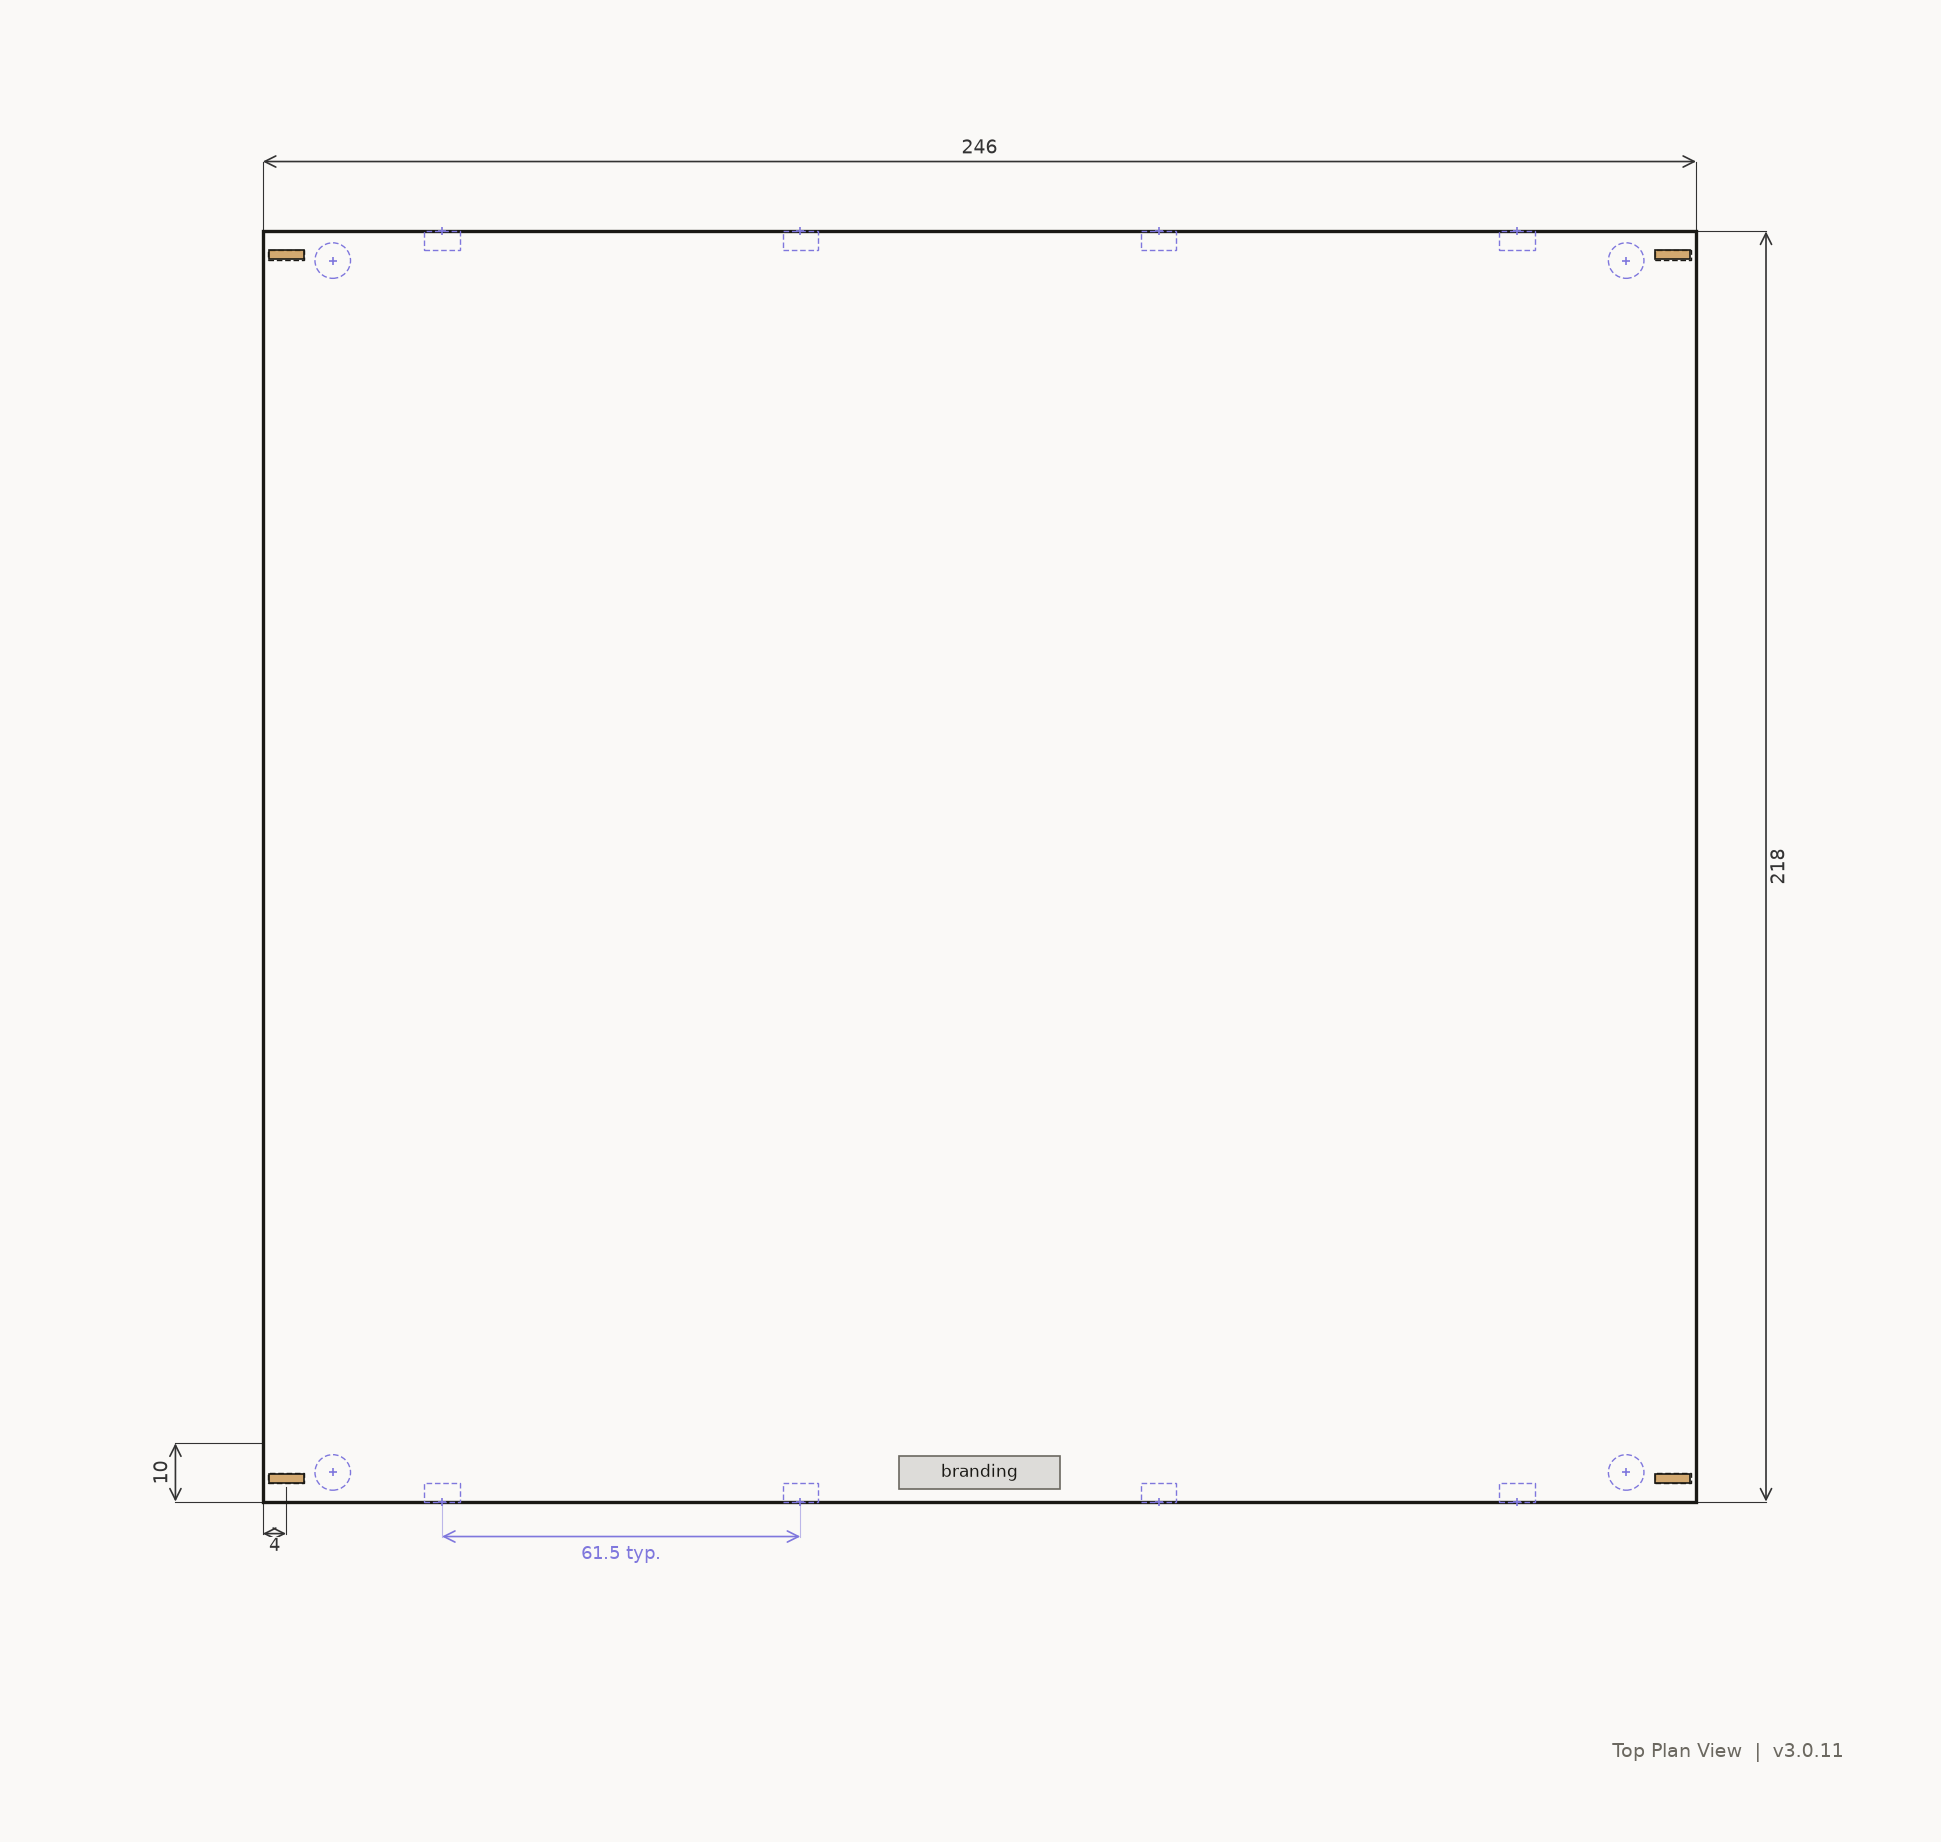
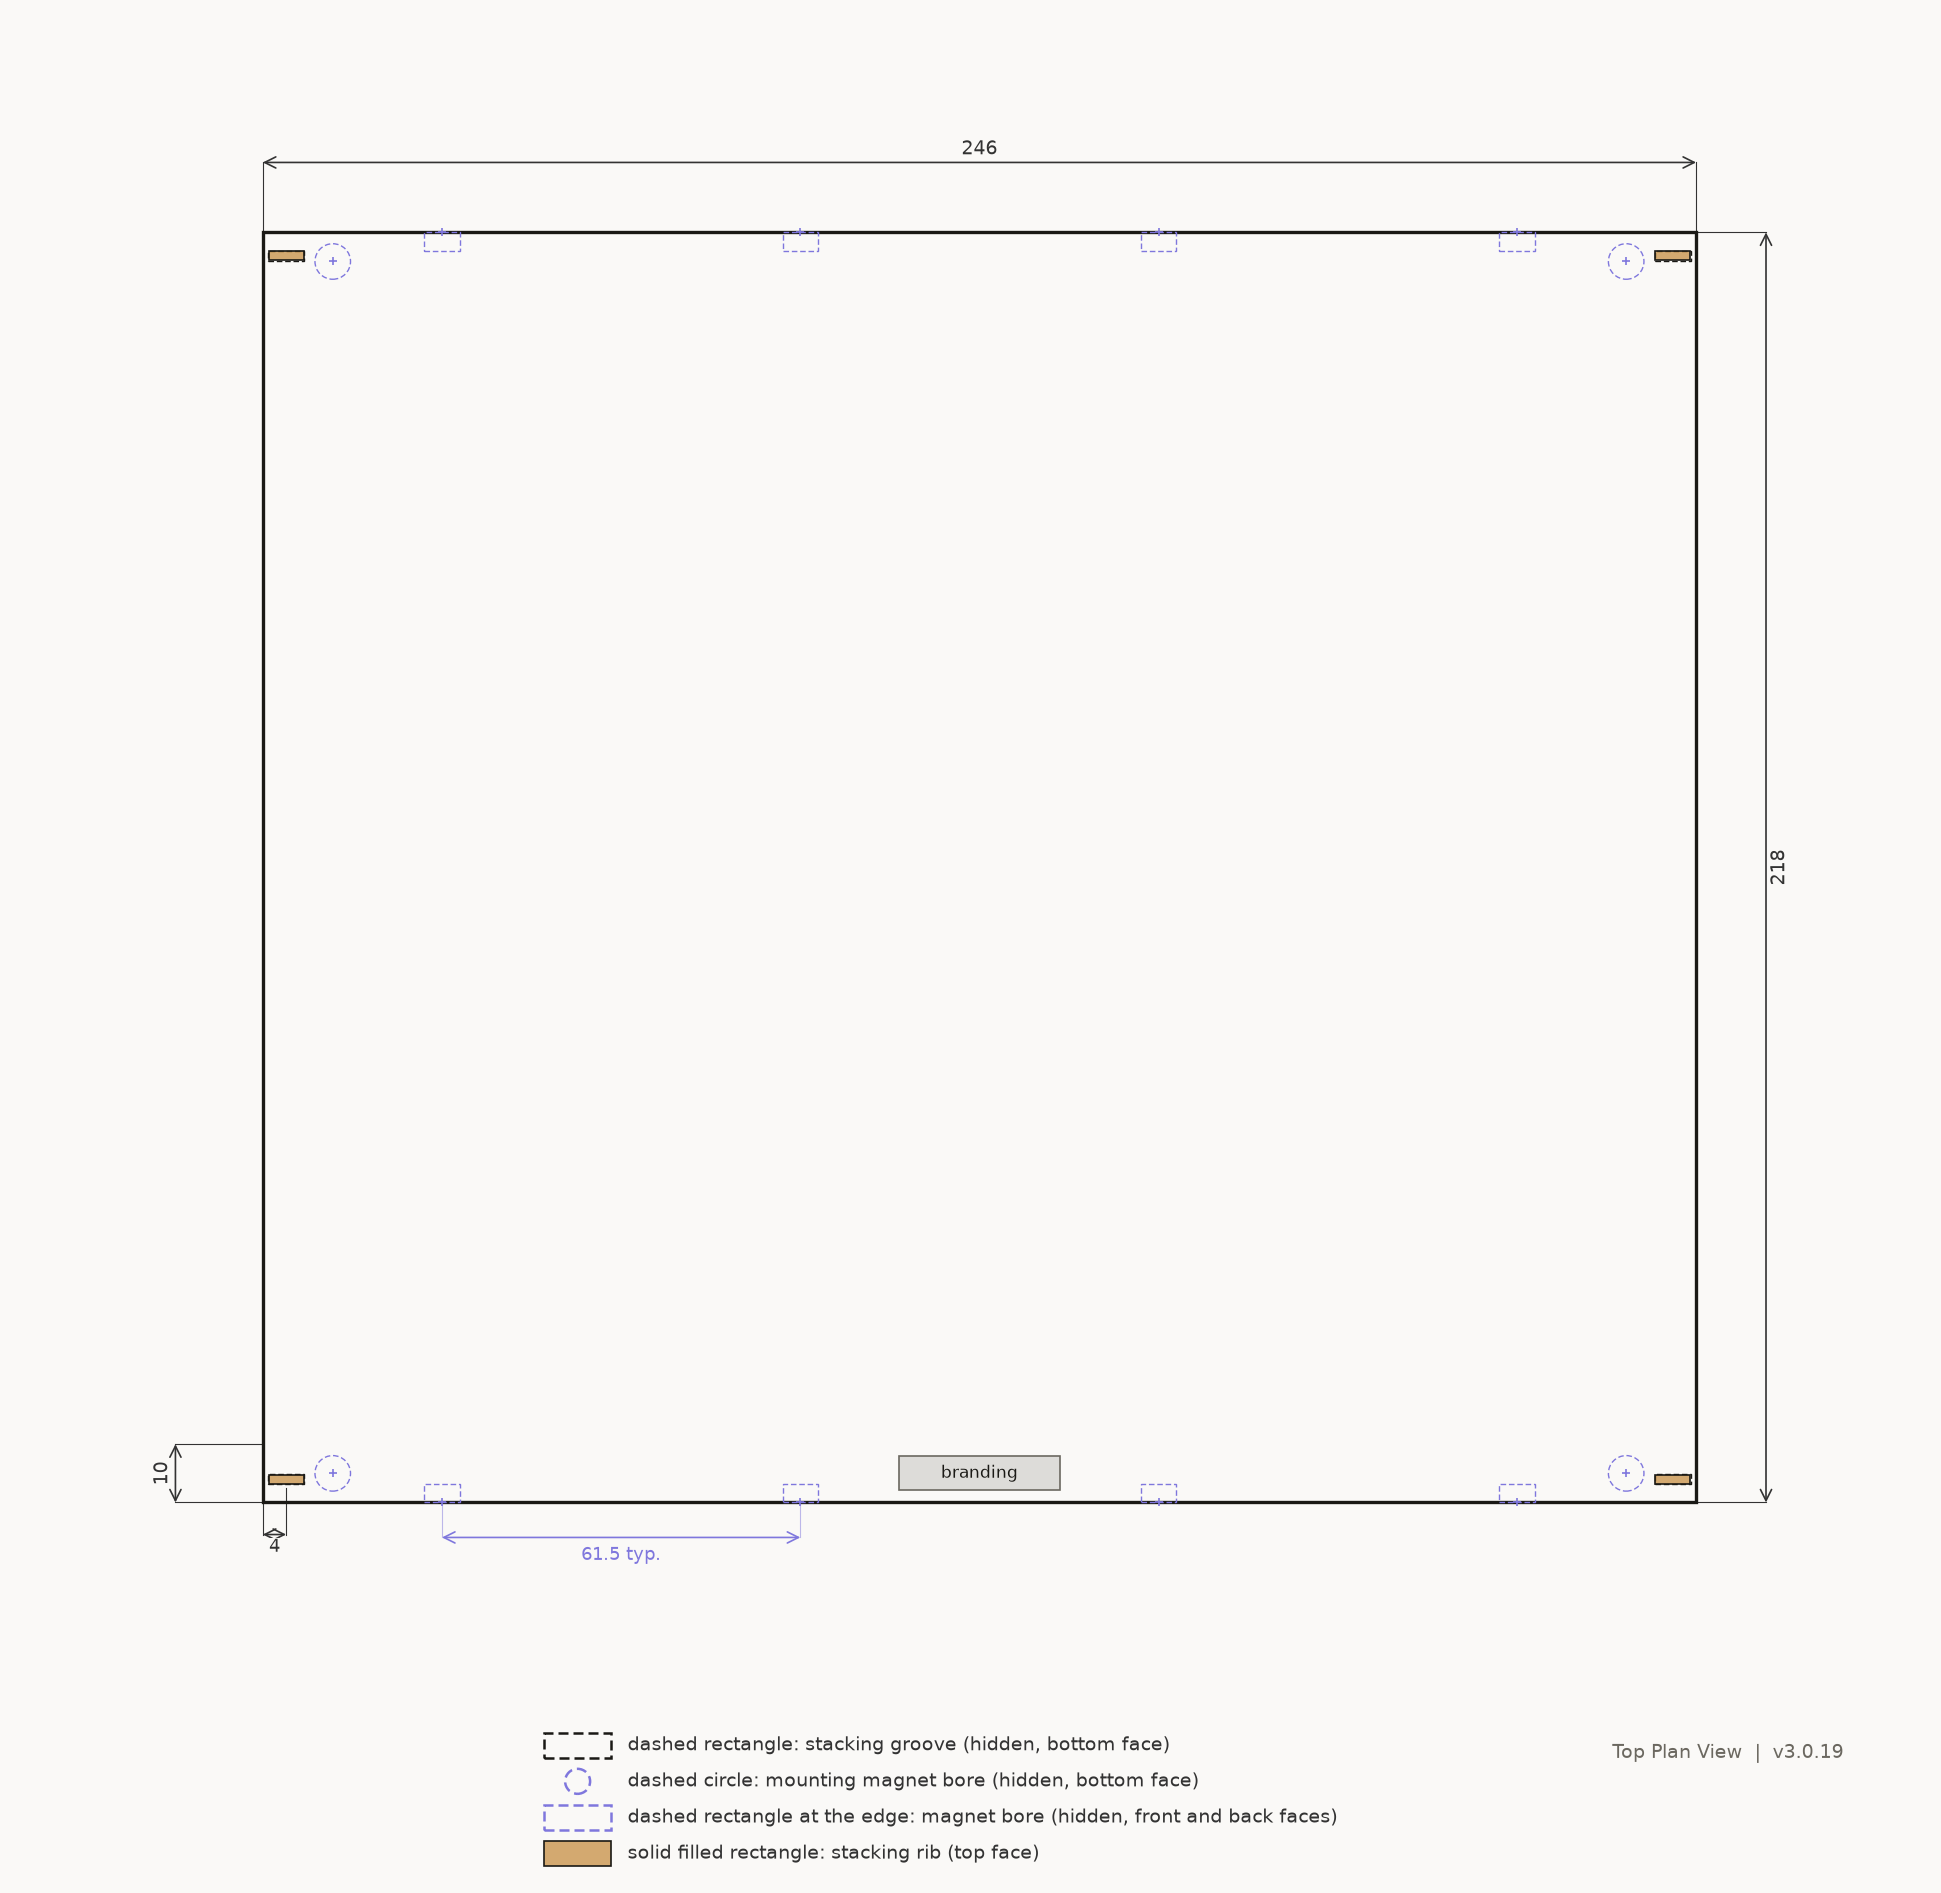
Add feature keys to the top plan and front elevation (3.0.19)
Fixes #51.

diff --git a/jig-plate.py b/jig-plate.py
@@ -720,6 +720,13 @@ Changelog
          so the mesh stays a volume) fails only that face's test(s);
          STL triangle data (bytes 80+) byte-identical to 3.0.11; both
          meshes watertight; full test suite passes.
+  3.0.19 drawing feature keys (#51): the top plan and front elevation each
+         carry a key naming the stacking groove, the mounting and edge
+         magnet bores and the rib, with each swatch in the line style the
+         feature is drawn in (add_key gained a points-based mode). Verified:
+         STL triangle data (bytes 80+) byte-identical to 3.0.11; both
+         meshes watertight; new tests fail without the key or with a
+         wrong swatch style; drawings viewed; full test suite passes.
 """
 import argparse
 import sys
@@ -750,7 +757,7 @@ def _solid(color, alpha):
     fg, bg = _to_rgba(color), _to_rgba(BG)
     return tuple(alpha * c + (1 - alpha) * b for c, b in zip(fg[:3], bg[:3])) + (1.0,)
 
-VERSION = "3.0.17"
+VERSION = "3.0.19"
 OUT_DIR = Path(__file__).resolve().parent / "output"
 IMG_DIR = Path(__file__).resolve().parent / "images"
 
@@ -819,16 +826,63 @@ def leader(ax, anchor, text_pos, label, ha="left", dashed=True):
             zorder=6)
 
 
-def add_key(ax, items, y_pos):
-    total_w = sum(len(label) * 5.5 + 22 for label, _ in items)
+def add_key(ax, items, y_pos=None, below_pt=None):
+    """Draw a key of (label, color) swatches.
+
+    Default (y_pos, in data units): one centered row of color swatches, as
+    on the isometric overview.
+
+    With below_pt: a column of feature entries under the axes, laid out in
+    points so it reads the same whatever the drawing's scale. Each item is
+    (label, color, style) where style gives the swatch outline: `shape`
+    ("rect" or "circle"), `ls` (line style, drawn as the feature is drawn,
+    so the key does not rely on color) and `fc` (fill or "none"). Call it
+    after the view is final: it positions the key from the axes box.
+    """
+    if below_pt is not None:
+        _add_point_key(ax, items, below_pt)
+        return
+    total_w = sum(len(label) * 5.5 + 22 for label, *_ in items)
     x = -total_w / 2
-    for label, color in items:
+    for label, color, *_ in items:
         ax.add_patch(FancyBboxPatch((x, y_pos - 5), 11, 11,
                      boxstyle="round,pad=1", fc=color, ec="none",
                      alpha=0.7, zorder=5))
         ax.text(x + 16, y_pos + 0.5, label, fontsize=7.5,
                 color=MUTED, va="center", fontfamily="sans-serif", zorder=5)
         x += len(label) * 5.5 + 30
+
+
+KEY_ROW_PT = 13.0
+KEY_SWATCH_W_PT = 24.0
+KEY_SWATCH_H_PT = 9.0
+
+
+def _add_point_key(ax, items, below_pt):
+    from matplotlib.patches import Circle, Rectangle
+    from matplotlib.transforms import Affine2D
+    fig = ax.figure
+    ax.apply_aspect()
+    box = ax.get_position()
+    # points -> display pixels, origin at the figure's lower-left corner
+    to_px = Affine2D().scale(1 / 72) + fig.dpi_scale_trans
+    x0 = box.x0 * fig.get_figwidth() * 72
+    y_top = box.y0 * fig.get_figheight() * 72 - below_pt
+    for i, (label, color, style) in enumerate(items):
+        yc = y_top - i * KEY_ROW_PT
+        kw = dict(fc=style.get("fc", "none"), ec=color, lw=style.get("lw", 0.9),
+                  ls=style.get("ls", "-"), transform=to_px, clip_on=False,
+                  zorder=5)
+        if style.get("shape") == "circle":
+            patch = Circle((x0 + KEY_SWATCH_W_PT / 2, yc),
+                           KEY_SWATCH_H_PT / 2, **kw)
+        else:
+            patch = Rectangle((x0, yc - KEY_SWATCH_H_PT / 2),
+                              KEY_SWATCH_W_PT, KEY_SWATCH_H_PT, **kw)
+        ax.add_patch(patch)
+        ax.text(x0 + KEY_SWATCH_W_PT + 6, yc, label, fontsize=7,
+                color=DIM_COLOR, va="center", ha="left",
+                fontfamily="sans-serif", transform=to_px, zorder=5)
 
 
 # ---- plate diagram (isometric) ----
@@ -1148,6 +1202,30 @@ def _title_block(ax, title):
             color=MUTED, fontfamily="sans-serif")
 
 
+# Feature keys for the top plan and the front elevation. Each swatch uses
+# the line style the feature is drawn in, and each label names the feature
+# and the face it is on, so the key does not rely on color.
+KEY_GROOVE = ("dashed rectangle: stacking groove (hidden, bottom face)",
+              FG, dict(ls=HIDDEN_LS))
+KEY_RIB = ("solid filled rectangle: stacking rib (top face)",
+           FG, dict(fc=_faint(AMBER, 0.6), lw=0.6))
+KEY_BOTTOM_BORE_CIRCLE = (
+    "dashed circle: mounting magnet bore (hidden, bottom face)",
+    VIOLET, dict(shape="circle", ls=HIDDEN_LS))
+KEY_BOTTOM_BORE_RECT = (
+    "dashed rectangle: mounting magnet bore (hidden, bottom face)",
+    VIOLET, dict(ls=HIDDEN_LS))
+KEY_EDGE_BORE = (
+    "dashed rectangle at the edge: magnet bore (hidden, front and back faces)",
+    VIOLET, dict(ls=HIDDEN_LS))
+KEY_FRONT_BORE = (
+    "solid circle: magnet bore (front face)",
+    VIOLET, dict(shape="circle", fc=_faint(VIOLET, 0.15), lw=0.8))
+TOP_PLAN_KEY = [KEY_GROOVE, KEY_BOTTOM_BORE_CIRCLE, KEY_EDGE_BORE, KEY_RIB]
+FRONT_KEY = [KEY_FRONT_BORE, KEY_BOTTOM_BORE_RECT, KEY_GROOVE, KEY_RIB]
+FEATURE_KEY_GAP_PT = 26.0
+
+
 # ---- technical drawing 1: dimensioned top plan view ----
 def _tech_top_plan(out_path, geom):
     S = 2.0
@@ -1247,6 +1325,7 @@ def _tech_top_plan(out_path, geom):
 
     ax.autoscale_view()
     ax.margins(0.06)
+    add_key(ax, TOP_PLAN_KEY, below_pt=FEATURE_KEY_GAP_PT)
     fig.savefig(out_path, dpi=200, bbox_inches="tight", pad_inches=0.4,
                 facecolor=BG)
     plt.close(fig)
@@ -1316,6 +1395,7 @@ def _tech_front_elevation(out_path, geom):
 
     ax.autoscale_view()
     ax.margins(x=0.03, y=0.15)
+    add_key(ax, FRONT_KEY, below_pt=FEATURE_KEY_GAP_PT)
     fig.savefig(out_path, dpi=200, bbox_inches="tight", pad_inches=0.3,
                 facecolor=BG)
     plt.close(fig)

diff --git a/tests/test_feature_key.py b/tests/test_feature_key.py
@@ -1,0 +1,63 @@
+"""The top plan and front elevation each carry a key naming every line
+style that distinguishes a feature (jig-plate.py), so hidden grooves, hidden
+bores and ribs can be told apart without color.
+
+The figures are captured by wrapping plt.close, which each drawing calls
+after saving.
+"""
+import importlib.util
+from pathlib import Path
+
+import pytest
+
+from jig_plate_base import build_plate
+
+_SCRIPT = Path(__file__).resolve().parent.parent / "jig-plate.py"
+_spec = importlib.util.spec_from_file_location("jig_plate_cli_key", _SCRIPT)
+cli = importlib.util.module_from_spec(_spec)
+_spec.loader.exec_module(cli)
+
+
+def _capture(fn, tmp_path):
+    captured = []
+    real_close = cli.plt.close
+    cli.plt.close = lambda fig=None: (captured.append(fig), real_close(fig))
+    try:
+        fn(tmp_path / "x.png", build_plate().geometry)
+    finally:
+        cli.plt.close = real_close
+    return captured[0].axes[0]
+
+
+EXPECTED = {
+    "top": ["dashed rectangle: stacking groove (hidden, bottom face)",
+            "dashed circle: mounting magnet bore (hidden, bottom face)",
+            "dashed rectangle at the edge: magnet bore (hidden, front and back faces)",
+            "solid filled rectangle: stacking rib (top face)"],
+    "front": ["solid circle: magnet bore (front face)",
+              "dashed rectangle: mounting magnet bore (hidden, bottom face)",
+              "dashed rectangle: stacking groove (hidden, bottom face)",
+              "solid filled rectangle: stacking rib (top face)"],
+}
+
+
+@pytest.mark.parametrize("name,fn", [
+    ("top", "_tech_top_plan"), ("front", "_tech_front_elevation")])
+def test_sheet_has_feature_key(tmp_path, name, fn):
+    ax = _capture(getattr(cli, fn), tmp_path)
+    texts = [t.get_text() for t in ax.texts]
+    for entry in EXPECTED[name]:
+        assert entry in texts, entry
+
+
+@pytest.mark.parametrize("name,fn", [
+    ("top", "_tech_top_plan"), ("front", "_tech_front_elevation")])
+def test_key_swatches_use_the_feature_line_style(tmp_path, name, fn):
+    """Each 'dashed' entry has a dashed swatch and each 'solid' one a solid
+    swatch, so the key does not rely on color."""
+    ax = _capture(getattr(cli, fn), tmp_path)
+    key_patches = [p for p in ax.patches if not p.get_clip_on()]
+    assert len(key_patches) == 4
+    for patch, label in zip(key_patches, EXPECTED[name]):
+        dashed = patch.get_linestyle() not in ("-", "solid")
+        assert dashed == label.startswith("dashed"), label

diff --git a/README.md b/README.md
@@ -60,18 +60,22 @@ drawn three times its true scale.](docs/images/diagram.png)
 
 ### Top plan
 
-![Top plan of the 246 × 218 mm plate: a stacking rib at each corner, a
-mounting-magnet bore on the underside near each corner, four magnet bores
-along each of the front and back edges at 61.5 mm spacing, and the
-branding area centered on the front edge. Features below the top face are
-dashed.](docs/images/tech_top.png)
+![Top plan of the 246 × 218 mm plate: a stacking rib (solid, filled) at each
+corner, with its stacking groove (dashed black rectangle, hidden, bottom face)
+behind it; a mounting-magnet bore (dashed violet circle, hidden, bottom face)
+near each corner; four magnet bores (dashed violet rectangles at the edge,
+hidden, front and back faces) along each of the front and back edges at
+61.5 mm spacing; and the branding area centered on the front edge. A key
+below the plan names each of these line styles.](docs/images/tech_top.png)
 
 ### Front elevation
 
 ![Front elevation of the plate, 246 mm long and 9 mm thick: four magnet
-bores centered 4.5 mm above the bottom, a stacking rib on each top corner,
-and the bottom grooves and mounting bores dashed as hidden
-features.](docs/images/tech_front.png)
+bores (solid circles) centered 4.5 mm above the bottom, a stacking rib (solid,
+filled) on each top corner, and two hidden features dashed along the bottom:
+the mounting-magnet bores (dashed violet rectangles) and the stacking grooves
+(dashed black rectangles). A key below the elevation names each of these line
+styles.](docs/images/tech_front.png)
 
 ### Detail sheet
 

diff --git a/CHANGELOG.md b/CHANGELOG.md
@@ -34,6 +34,19 @@ never changes -- it isn't one of the three.
 
 ---
 
+## 3.0.19 — Feature keys on the top plan and front elevation
+
+Iterative (unreleased). Plate and coupon geometry at the defaults are
+unchanged from 3.0.11 (triangle data byte-identical).
+
+### Fixed
+- The top plan and the front elevation each have a key under the drawing
+  that names the stacking groove, the mounting-magnet bore, the edge
+  magnet bores and the stacking rib. Each swatch is drawn in the same line
+  style as the feature (dashed or solid), so the hidden features can be
+  told apart without relying on color. The README descriptions of both
+  images say which hidden feature is which (#51).
+
 ## 3.0.17 — Faster text-orientation tests
 
 Iterative (unreleased). Tests only; the plate and coupon geometry are
